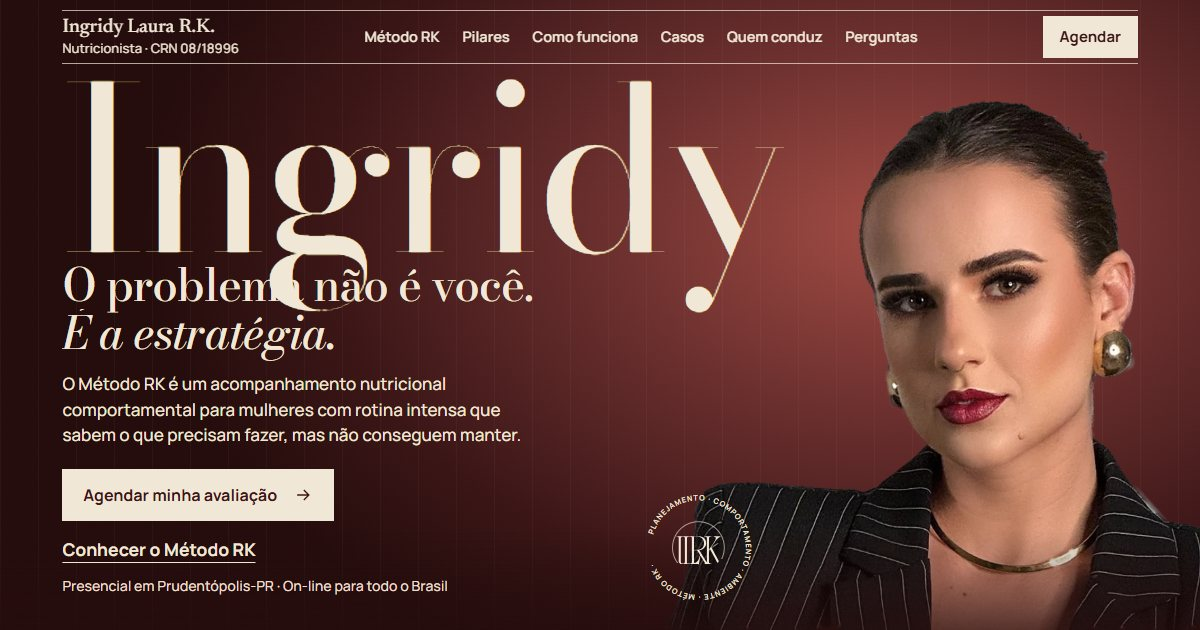
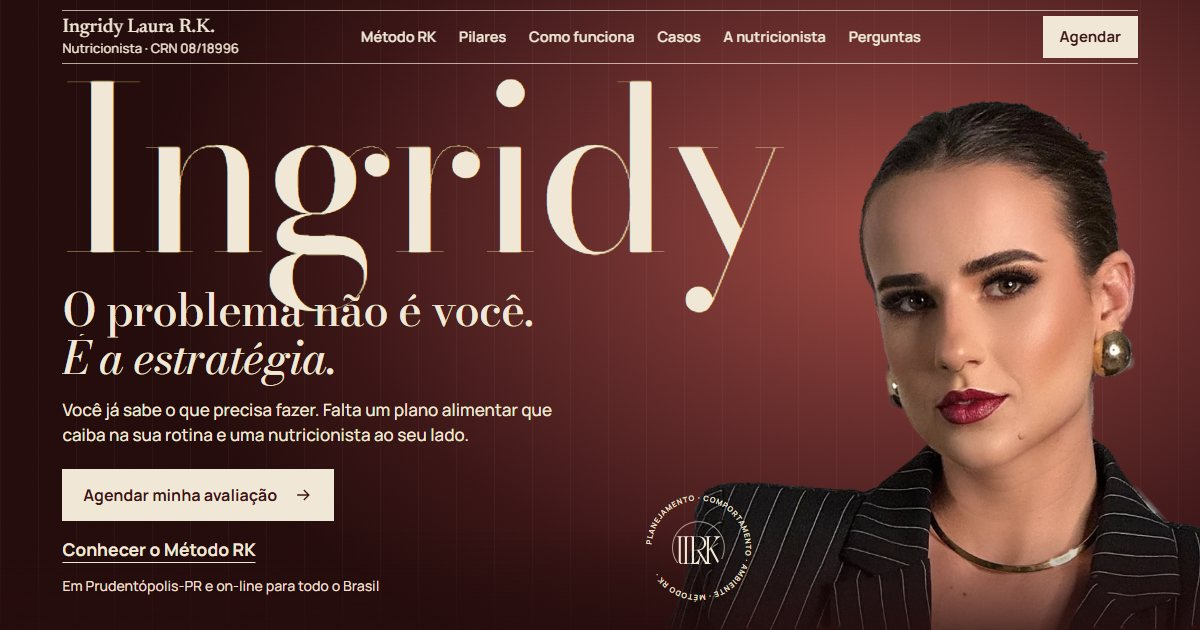
Copy nova: frases curtas, com as palavras da Ingridy e foco na dor da paciente

diff --git a/index.html b/index.html
@@ -71,7 +71,7 @@
       <a href="#pilares">Pilares</a>
       <a href="#como-funciona">Como funciona</a>
       <a href="#casos">Casos</a>
-      <a href="#quem-conduz">Quem conduz</a>
+      <a href="#quem-conduz">A nutricionista</a>
       <a href="#perguntas">Perguntas</a>
     </nav>
     <a class="topo-agendar" href="https://wa.me/5542999497100?text=Ol%C3%A1!%20Vim%20pelo%20site%20e%20gostaria%20de%20agendar%20minha%20Avalia%C3%A7%C3%A3o%20Pr%C3%A9-Acompanhamento%20do%20M%C3%A9todo%20RK." target="_blank" rel="noopener">Agendar</a>
@@ -90,12 +90,12 @@
   <div class="capa-veu" aria-hidden="true"></div>
   <div class="capa-texto">
     <h1><span class="sobe"><span>O problema não é você.</span></span> <span class="sobe"><span><em>É a estratégia.</em></span></span></h1>
-    <p class="capa-sub">O Método RK é um acompanhamento nutricional comportamental para mulheres com rotina intensa que sabem o que precisam fazer, mas não conseguem manter.</p>
+    <p class="capa-sub">Você já sabe o que precisa fazer. Falta um plano alimentar que caiba na sua rotina e uma nutricionista ao seu lado.</p>
     <div class="capa-acoes">
       <a class="botao" href="https://wa.me/5542999497100?text=Ol%C3%A1!%20Vim%20pelo%20site%20e%20gostaria%20de%20agendar%20minha%20Avalia%C3%A7%C3%A3o%20Pr%C3%A9-Acompanhamento%20do%20M%C3%A9todo%20RK." target="_blank" rel="noopener"><span>Agendar minha avaliação</span><b><svg viewBox="0 0 24 24" aria-hidden="true"><path d="M5 12h14M13 6l6 6-6 6"/></svg></b></a>
       <a class="link" href="#metodo">Conhecer o Método RK</a>
     </div>
-    <p class="capa-local">Presencial em Prudentópolis-PR · On-line para todo o Brasil</p>
+    <p class="capa-local">Em Prudentópolis-PR e on-line para todo o Brasil</p>
   </div>
   <div class="selo" aria-hidden="true" data-selo>
     <svg class="selo-texto" viewBox="0 0 200 200"><defs><path id="selo-arco" d="M100 100m-82 0a82 82 0 1 1 164 0a82 82 0 1 1-164 0"/></defs><text><textPath href="#selo-arco">PLANEJAMENTO · COMPORTAMENTO · AMBIENTE · MÉTODO RK ·</textPath></text></svg>
@@ -109,8 +109,11 @@
   <div class="problema-texto surge">
     <p class="sobre"><i></i>I · O problema</p>
     <h2>Saber o que comer não é o mesmo que conseguir <em>manter.</em></h2>
-    <p>A maioria das mulheres que procura o Método RK não tem falta de informação. Tem uma rotina intensa, desgaste mental e um ciclo que se repete a cada nova tentativa.</p>
-    <p>O método interrompe esse ciclo atuando onde a dieta isolada não alcança: na rotina, no comportamento e no ambiente.</p>
+    <p>Você resolve tudo o dia inteiro. À noite, chega em casa cansada e come o que tem: doce, pão, qualquer coisa.</p>
+    <p class="dor-destaque">Não é fome. É exaustão.</p>
+    <p>Depois vem a culpa e a promessa de sempre: segunda eu recomeço.</p>
+    <p>Não falta informação nem força de vontade. Falta um plano feito para a sua rotina, e alguém para ajustar com você quando ela muda.</p>
+    <p>É isso que o <strong>Método RK</strong> faz: 4 meses de acompanhamento com a nutricionista.</p>
   </div>
   <figure class="anel surge" data-anel>
     <svg viewBox="0 0 600 600" aria-hidden="true"><circle class="anel-base" cx="300" cy="300" r="196"/><circle class="anel-ponto" cx="300" cy="104" r="7"/></svg>
@@ -122,24 +125,24 @@
       <li style="--x:15%;--y:70%">Sente culpa</li>
       <li style="--x:15%;--y:30%">Recomeça</li>
     </ol>
-    <figcaption><span>O ciclo que o método <em>interrompe</em></span></figcaption>
+    <figcaption><span>Você vive neste <em>ciclo?</em></span></figcaption>
   </figure>
 
   <div class="comparar surge">
     <div class="comparar-grade">
       <div class="comparar-arco" aria-hidden="true"></div>
       <div class="comparar-intro">
-        <h3>O que muda em relação a uma <em>dieta isolada</em></h3>
-        <p>A diferença está em onde o trabalho começa e no que acontece quando a rotina sai do plano.</p>
+        <h3>Você não precisa de <em>mais uma dieta</em></h3>
+        <p>A diferença aparece quando a rotina sai do plano.</p>
       </div>
       <div class="c-cab"><svg aria-hidden="true"><use href="#mono"/></svg>Método RK</div>
-      <div class="c-legenda" aria-hidden="true"><span class="l-dieta">Dieta isolada</span><span class="l-rk">Método RK</span></div>
-      <div class="c-vazio"></div><div class="c-rotulo">Dieta isolada</div><div class="c-rotulo c-rotulo-rk">Acompanhamento de 4 meses</div>
-      <div class="c-tema">Ponto de partida</div><div class="c-dieta"><small>Dieta isolada</small>O cardápio.</div><div class="c-rk"><small>Método RK</small>A rotina, os gatilhos e o ambiente.</div>
-      <div class="c-tema">Plano alimentar</div><div class="c-dieta"><small>Dieta isolada</small>Pronto, e a rotina precisa se adaptar a ele.</div><div class="c-rk"><small>Método RK</small>Montado com a paciente, a partir da rotina real.</div>
-      <div class="c-tema">Vontade de doce</div><div class="c-dieta"><small>Dieta isolada</small>Trocar por versão fit e se policiar.</div><div class="c-rk"><small>Método RK</small>Identificar o gatilho, ajustar o planejamento e trabalhar a compensação.</div>
-      <div class="c-tema">Eventos e fins de semana</div><div class="c-dieta"><small>Dieta isolada</small>Uma exceção que interrompe o processo.</div><div class="c-rk"><small>Método RK</small>Estratégias e redução de danos planejadas.</div>
-      <div class="c-tema">Semana difícil</div><div class="c-dieta"><small>Dieta isolada</small>Recomeçar na segunda-feira.</div><div class="c-rk"><small>Método RK</small>Ajuste do planejamento e suporte entre as consultas.</div>
+      <div class="c-legenda" aria-hidden="true"><span class="l-dieta">Mais uma dieta</span><span class="l-rk">Método RK</span></div>
+      <div class="c-vazio"></div><div class="c-rotulo">Mais uma dieta</div><div class="c-rotulo c-rotulo-rk">Acompanhamento de 4 meses</div>
+      <div class="c-tema">Por onde começa</div><div class="c-dieta"><small>Mais uma dieta</small>Por um cardápio pronto.</div><div class="c-rk"><small>Método RK</small>Pela sua rotina e pelo que faz você sair do plano.</div>
+      <div class="c-tema">Plano alimentar</div><div class="c-dieta"><small>Mais uma dieta</small>Pronto, e você que se adapte.</div><div class="c-rk"><small>Método RK</small>Montado com a nutricionista, para caber no seu dia.</div>
+      <div class="c-tema">Vontade de doce</div><div class="c-dieta"><small>Mais uma dieta</small>Trocar por receita fit e se segurar.</div><div class="c-rk"><small>Método RK</small>Entender o que causa a vontade e treinar o que fazer na hora.</div>
+      <div class="c-tema">Festa e fim de semana</div><div class="c-dieta"><small>Mais uma dieta</small>Ou recusa o convite, ou exagera e sente culpa.</div><div class="c-rk"><small>Método RK</small>Você vai, com um plano para aquele dia.</div>
+      <div class="c-tema">Semana difícil</div><div class="c-dieta"><small>Mais uma dieta</small>Segunda eu recomeço.</div><div class="c-rk"><small>Método RK</small>Ajuste no plano e suporte direto com a nutricionista.</div>
       <div class="c-pe"><a href="https://wa.me/5542999497100?text=Ol%C3%A1!%20Vim%20pelo%20site%20e%20gostaria%20de%20agendar%20minha%20Avalia%C3%A7%C3%A3o%20Pr%C3%A9-Acompanhamento%20do%20M%C3%A9todo%20RK." target="_blank" rel="noopener">Agendar minha avaliação<svg viewBox="0 0 24 24" aria-hidden="true"><path d="M5 12h14M13 6l6 6-6 6"/></svg></a></div>
     </div>
   </div>
@@ -149,9 +152,9 @@
 
 <section class="pilares" id="pilares">
   <div class="pilares-topo surge">
-    <p class="sobre"><i></i>II · A estrutura</p>
+    <p class="sobre"><i></i>II · O método</p>
     <h2>Três <em>pilares</em> sustentam o método</h2>
-    <p>Cada pilar trata uma das causas que fazem o esforço não se sustentar.</p>
+    <p>Cada pilar cuida de um dos motivos que fazem você parar no meio do caminho.</p>
   </div>
   <svg class="templo" viewBox="0 0 1200 640" role="img" aria-label="Um templo clássico em traço dourado, com o nome Método RK no frontão e três colunas: os três pilares do método." data-templo>
     <g class="traco">
@@ -175,31 +178,34 @@
     <li class="pilar surge">
       <span class="pilar-num" aria-hidden="true">I</span>
       <h3>Planejamento Estratégico da Rotina Alimentar</h3>
-      <p>Organização real: refeições, lista de compras e cardápio que cabem na rotina, sem improviso.</p>
+      <p class="pilar-para">Para quem vive no improviso.</p>
+      <p>Seu plano alimentar, sua lista de compras e suas refeições organizados para a rotina que você tem.</p>
       <ul>
-        <li>Cardápio montado em conjunto, a partir da rotina da paciente.</li>
-        <li>Lista de compras prática, personalizada para o cardápio.</li>
-        <li>Revisão semanal do planejamento, com clareza.</li>
+        <li>Cardápio montado com você, a partir do seu dia.</li>
+        <li>Lista de compras feita para o seu cardápio.</li>
+        <li>Revisão toda semana, para o plano acompanhar a rotina.</li>
       </ul>
     </li>
     <li class="pilar surge">
       <span class="pilar-num" aria-hidden="true">II</span>
       <h3>Neurodisciplina e Comportamento</h3>
-      <p>Treino para sair do 8 ou 80, reduzir impulsos e parar de descontar emoções na comida.</p>
+      <p class="pilar-para">Para quem vive no 8 ou 80.</p>
+      <p>Treino para agir diferente na hora do cansaço e da vontade, sem descontar as emoções na comida.</p>
       <ul>
-        <li>Estratégias de neurociência para ativar constância e disciplina.</li>
-        <li>Exercícios para lidar com vontade de doce e fome emocional.</li>
-        <li>Mudança de mentalidade que se reflete no comportamento alimentar.</li>
+        <li>Entender a diferença entre fome e busca por conforto.</li>
+        <li>Exercícios para a vontade de doce e a fome emocional.</li>
+        <li>Estratégias de neurociência para ter constância sem depender de motivação.</li>
       </ul>
     </li>
     <li class="pilar surge">
       <span class="pilar-num" aria-hidden="true">III</span>
       <h3>Blindagem contra Sabotadores Ambientais</h3>
-      <p>Identificar e neutralizar o que puxa para trás: rotina caótica, estresse, falta de tempo e pressão social.</p>
+      <p class="pilar-para">Para quem sente que tudo puxa para trás.</p>
+      <p>Sabotadores são o que tira você do plano: falta de tempo, estresse e a pressão de quem está por perto.</p>
       <ul>
-        <li>Comunicação com familiares quando a mudança encontra resistência.</li>
-        <li>Estratégias para eventos, rotina corrida e ambiente familiar.</li>
-        <li>Planejamento de redução de danos, sem culpa.</li>
+        <li>Como conversar com a família quando a mudança encontra resistência.</li>
+        <li>Plano para eventos, fins de semana e semanas corridas.</li>
+        <li>Redução de danos: o que fazer quando sai do plano, sem culpa.</li>
       </ul>
     </li>
   </ol>
@@ -210,8 +216,8 @@
 <section class="jornada" id="como-funciona">
   <div class="jornada-lado surge">
     <p class="sobre"><i></i>III · Como funciona</p>
-    <h2>Uma estrutura para os <em>quatro meses</em></h2>
-    <p>Frequência definida, para que o processo continue mesmo quando a motivação acaba.</p>
+    <h2>Você não faz isso <em>sozinha</em></h2>
+    <p>Quatro meses com a nutricionista ao seu lado, para o processo continuar quando a motivação acaba.</p>
     <div class="escala" role="img" aria-label="Linha de quatro meses com seis consultas individuais, uma a cada 20 dias.">
       <div class="escala-meses"><span>Mês 1</span><span>Mês 2</span><span>Mês 3</span><span>Mês 4</span></div>
       <div class="escala-linha"><i style="--p:0"></i><i style="--p:16.667"></i><i style="--p:33.333"></i><i style="--p:50"></i><i style="--p:66.667"></i><i style="--p:83.333"></i></div>
@@ -220,11 +226,11 @@
     <a class="botao botao-escuro" href="https://wa.me/5542999497100?text=Ol%C3%A1!%20Gostaria%20de%20entender%20como%20funciona%20o%20M%C3%A9todo%20RK%20e%20agendar%20minha%20avalia%C3%A7%C3%A3o." target="_blank" rel="noopener"><span>Começar pela avaliação</span><b><svg viewBox="0 0 24 24" aria-hidden="true"><path d="M5 12h14M13 6l6 6-6 6"/></svg></b></a>
   </div>
   <ol class="ritmo">
-    <li class="surge"><span class="vazado" aria-hidden="true">01</span><div><h3>Antes de começar</h3><p><strong>Avaliação Pré-Acompanhamento.</strong> Análise da rotina e do padrão de autocontrole, com a explicação clara de por que o esforço ainda não está virando resultado.</p></div></li>
-    <li class="surge"><span class="vazado" aria-hidden="true">02</span><div><h3>A cada 20 dias</h3><p><strong>Consulta individual.</strong> São 6 ao longo de 4 meses, presenciais em Prudentópolis-PR ou on-line.</p></div></li>
-    <li class="surge"><span class="vazado" aria-hidden="true">03</span><div><h3>Toda semana</h3><p><strong>Ajustes no planejamento.</strong> Cardápio e lista de compras acompanham a rotina real, inclusive quando ela muda.</p></div></li>
-    <li class="surge"><span class="vazado" aria-hidden="true">04</span><div><h3>Entre as consultas</h3><p><strong>Sistema Anti-Desistência.</strong> Suporte direto com a nutricionista para sustentar o processo nos momentos em que a rotina tenta derrubar.</p></div></li>
-    <li class="surge"><span class="vazado" aria-hidden="true">05</span><div><h3>Todos os dias</h3><p><strong>Comunidade RK e biblioteca.</strong> Ambiente seguro de mulheres com o mesmo objetivo e acesso a materiais práticos.</p></div></li>
+    <li class="surge"><span class="vazado" aria-hidden="true">01</span><div><h3>Antes de começar</h3><p><strong>Avaliação <span class="junto">Pré-Acompanhamento.</span></strong> Analisamos a sua rotina e explicamos por que o seu esforço ainda não virou resultado.</p></div></li>
+    <li class="surge"><span class="vazado" aria-hidden="true">02</span><div><h3>A cada 20 dias</h3><p><strong>Consulta individual.</strong> São 6 em 4 meses, em Prudentópolis-PR ou on-line.</p></div></li>
+    <li class="surge"><span class="vazado" aria-hidden="true">03</span><div><h3>Toda semana</h3><p><strong>Ajustes no plano alimentar.</strong> O cardápio e a lista de compras mudam quando a sua rotina muda.</p></div></li>
+    <li class="surge"><span class="vazado" aria-hidden="true">04</span><div><h3>Entre as consultas</h3><p><strong>Sistema Anti-Desistência.</strong> Suporte direto com a nutricionista na hora em que dá vontade de desistir.</p></div></li>
+    <li class="surge"><span class="vazado" aria-hidden="true">05</span><div><h3>Todos os dias</h3><p><strong>Comunidade RK e biblioteca.</strong> Um ambiente seguro de mulheres com o mesmo objetivo, e materiais práticos para consultar.</p></div></li>
   </ol>
 </section>
 
@@ -233,17 +239,18 @@
 <section class="paraquem">
   <div class="paraquem-titulo surge">
     <p class="sobre"><i></i>IV · Para quem</p>
-    <h2>Para mulheres que lideram, menos a própria <em>alimentação.</em></h2>
+    <h2>Você é excelente em outras áreas, mas trava na <em>alimentação?</em></h2>
   </div>
   <div class="paraquem-lista surge">
+    <p class="paraquem-intro">O Método RK é para você que:</p>
     <ul>
-      <li>Têm rotina intensa, no trabalho e em casa.</li>
-      <li>Buscam clareza e organização na alimentação.</li>
-      <li>Querem emagrecer sem restrição extrema.</li>
-      <li>Estão cansadas de recomeçar.</li>
-      <li>Querem uma estratégia real, não mais uma dieta.</li>
+      <li>Tem rotina intensa, no trabalho e em casa.</li>
+      <li>Vive no improviso e come o que tem.</li>
+      <li>Está cansada de começar e parar.</li>
+      <li>Quer emagrecer sem viver em guerra com a comida.</li>
+      <li>Quer um plano que caiba na sua vida, não mais uma dieta.</li>
     </ul>
-    <p class="paraquem-nao"><em>Para quem não é:</em> quem procura solução em uma semana. Mudança de comportamento leva tempo, e é por isso que o acompanhamento dura 4 meses.</p>
+    <p class="paraquem-nao"><em>Não é para quem</em> quer solução em uma semana. Mudar comportamento leva tempo. Por isso são 4 meses.</p>
   </div>
 </section>
 
@@ -256,7 +263,7 @@
       <h2>O método em <em>casos reais</em></h2>
     </div>
     <div class="casos-nota">
-      <p>Casos de consultório, sem identificação e sem dados corporais. Cada pessoa tem o seu processo.</p>
+      <p>Casos de consultório, sem expor ninguém. Cada pessoa tem o seu processo.</p>
       <div class="casos-setas">
         <button type="button" data-folha="-1" aria-label="Caso anterior"><svg viewBox="0 0 24 24" aria-hidden="true"><path d="M19 12H5M11 6l-6 6 6 6"/></svg></button>
         <button type="button" data-folha="1" aria-label="Próximo caso"><svg viewBox="0 0 24 24" aria-hidden="true"><path d="M5 12h14M13 6l6 6-6 6"/></svg></button>
@@ -272,8 +279,8 @@
       </div>
       <dl>
         <div><dt>O que parecia</dt><dd>Que nunca havia nada para comer em casa.</dd></div>
-        <div><dt>O que a avaliação mostrou</dt><dd>Compra sem planejamento: muita coisa estragava e a alimentação ficava no improviso.</dd></div>
-        <div><dt>O que foi trabalhado</dt><dd>A lista de compras do Método RK, feita a partir do cardápio dela.</dd></div>
+        <div><dt>O que estava por trás</dt><dd>Compras sem planejamento. Muita coisa estragava e as refeições ficavam no improviso.</dd></div>
+        <div><dt>O que fizemos</dt><dd>A lista de compras do Método RK, feita a partir do cardápio dela.</dd></div>
         <div><dt>O que mudou</dt><dd>“Vou uma vez por semana, compro só o que preciso, na quantidade certa. Parou o desperdício.”</dd></div>
       </dl>
     </article>
@@ -285,8 +292,8 @@
       </div>
       <dl>
         <div><dt>O que parecia</dt><dd>Falta de controle com a comida.</dd></div>
-        <div><dt>O que a avaliação mostrou</dt><dd>O cansaço de passar o dia resolvendo problemas. A comida era o alívio que ela conseguia ter.</dd></div>
-        <div><dt>O que foi trabalhado</dt><dd>Investigação de gatilhos e situações, e o reconhecimento da diferença entre fome e busca por conforto.</dd></div>
+        <div><dt>O que estava por trás</dt><dd>O cansaço de resolver problemas o dia inteiro. A comida era o alívio que ela conseguia ter.</dd></div>
+        <div><dt>O que fizemos</dt><dd>Identificamos os gatilhos e treinamos a diferença entre fome e busca por conforto.</dd></div>
         <div><dt>O que mudou</dt><dd>Em uma semana corrida de fechamento do mês, usou os exercícios antes de ir ao doce da gaveta.</dd></div>
       </dl>
     </article>
@@ -298,8 +305,8 @@
       </div>
       <dl>
         <div><dt>O que parecia</dt><dd>Falta de disciplina.</dd></div>
-        <div><dt>O que a avaliação mostrou</dt><dd>Uma rotina que dificultava as escolhas alimentares.</dd></div>
-        <div><dt>O que foi trabalhado</dt><dd>Identificação do que atrapalhava, organização da rotina e estratégias possíveis de manter.</dd></div>
+        <div><dt>O que estava por trás</dt><dd>Uma rotina que dificultava as escolhas.</dd></div>
+        <div><dt>O que fizemos</dt><dd>Identificamos o que atrapalhava, organizamos a rotina e escolhemos estratégias possíveis de manter.</dd></div>
         <div><dt>O que mudou</dt><dd>Até o marido e a filha passaram a se alimentar melhor.</dd></div>
       </dl>
     </article>
@@ -334,10 +341,10 @@
     </figure>
   </div>
   <div class="quem-texto surge">
-    <p class="sobre"><i></i>VII · Quem conduz</p>
+    <p class="sobre"><i></i>VII · A nutricionista</p>
     <h2>Ingridy Laura <em>Raifur Kos</em></h2>
     <p class="quem-cargo">Nutricionista · CRN 08/18996 · Criadora do Método RK</p>
-    <p>Nutricionista com atuação em nutrição comportamental. Atende mulheres com rotina intensa, presencialmente em Prudentópolis-PR e on-line para todo o Brasil.</p>
+    <p>Atua em nutrição comportamental, que olha para o que você come e também para o porquê. Atende mulheres com rotina intensa, em Prudentópolis-PR e on-line para todo o Brasil.</p>
     <ul class="credenciais">
       <li>Graduação em Nutrição</li>
       <li>Pós-graduação em Nutrição Esportiva</li>
@@ -358,28 +365,32 @@
   </div>
   <div class="perguntas-lista">
     <details open>
-      <summary>O Método RK é mais uma dieta?<svg viewBox="0 0 24 24" aria-hidden="true"><path d="M5 9l7 7 7-7"/></svg></summary>
-      <p>Não. É um acompanhamento nutricional de 4 meses. O cardápio existe, mas é montado com a paciente, a partir da rotina dela, junto com o trabalho de comportamento e de ambiente.</p>
+      <summary>Já sei o que comer. Por que preciso de uma nutricionista?<svg viewBox="0 0 24 24" aria-hidden="true"><path d="M5 9l7 7 7-7"/></svg></summary>
+      <p>Porque saber não é o mesmo que manter. A nutricionista monta o plano com você, ajusta toda semana e está por perto quando a rotina aperta.</p>
     </details>
     <details open>
+      <summary>O Método RK é mais uma dieta?<svg viewBox="0 0 24 24" aria-hidden="true"><path d="M5 9l7 7 7-7"/></svg></summary>
+      <p>Não. É um acompanhamento de 4 meses com a nutricionista. O plano alimentar é montado com você, junto com o trabalho de comportamento e de rotina.</p>
+    </details>
+    <details>
       <summary>Vou precisar cortar doce, pão e vida social?<svg viewBox="0 0 24 24" aria-hidden="true"><path d="M5 9l7 7 7-7"/></svg></summary>
-      <p>O acompanhamento não é baseado em proibições. O trabalho é aprender a lidar com eventos, fins de semana e vontade de doce com estratégia.</p>
+      <p>O acompanhamento não é baseado em proibição. Você aprende a lidar com festas, fins de semana e vontade de doce, com estratégia.</p>
     </details>
     <details>
       <summary>Minha rotina é caótica. Funciona mesmo assim?<svg viewBox="0 0 24 24" aria-hidden="true"><path d="M5 9l7 7 7-7"/></svg></summary>
-      <p>O método foi criado para mulheres com rotina intensa. O planejamento se adapta à vida da paciente e inclui o que fazer quando a semana sai do plano.</p>
+      <p>O método foi criado para rotinas intensas. O plano se adapta à sua vida e já prevê o que fazer quando a semana sai do planejado.</p>
     </details>
     <details>
       <summary>Uso ou penso em usar medicamento para emagrecer. Faz sentido?<svg viewBox="0 0 24 24" aria-hidden="true"><path d="M5 9l7 7 7-7"/></svg></summary>
-      <p>O medicamento pode ajudar no tratamento da obesidade, com acompanhamento médico, mas não substitui a mudança dos hábitos alimentares. O foco aqui é o comportamento e a rotina.</p>
+      <p>O medicamento pode ajudar no tratamento da obesidade, com acompanhamento médico, mas não substitui a mudança de hábitos. O foco aqui é o comportamento e a rotina.</p>
     </details>
     <details>
-      <summary>O atendimento é presencial ou on-line?<svg viewBox="0 0 24 24" aria-hidden="true"><path d="M5 9l7 7 7-7"/></svg></summary>
+      <summary>É presencial ou on-line?<svg viewBox="0 0 24 24" aria-hidden="true"><path d="M5 9l7 7 7-7"/></svg></summary>
       <p>Os dois. Presencial na Rua XII de Agosto, 1439, Centro, Prudentópolis-PR, e on-line para todo o Brasil.</p>
     </details>
     <details>
       <summary>Por onde eu começo?<svg viewBox="0 0 24 24" aria-hidden="true"><path d="M5 9l7 7 7-7"/></svg></summary>
-      <p>Pela Avaliação Pré-Acompanhamento, em que analisamos sua rotina e seu padrão de autocontrole e explicamos o caminho dentro do método.</p>
+      <p>Pela Avaliação <span class="junto">Pré-Acompanhamento.</span> Analisamos a sua rotina e explicamos o que está travando o seu processo.</p>
     </details>
   </div>
 </section>
@@ -390,8 +401,8 @@
   <svg class="final-marca" aria-hidden="true"><use href="#mono"/></svg>
   <div class="final-texto surge">
     <p class="sobre"><i></i>O primeiro passo</p>
-    <h2>Tudo começa pela <em>avaliação.</em></h2>
-    <p>Na Avaliação Pré-Acompanhamento, você entende o que está travando o seu processo e como o Método RK atua no seu caso.</p>
+    <h2>Quantas semanas você ainda vai terminar prometendo que na próxima será <em>diferente?</em></h2>
+    <p>Comece pela Avaliação <span class="junto">Pré-Acompanhamento.</span> Você entende o que está travando o seu processo e como a nutricionista pode ajudar com o seu plano alimentar.</p>
     <a class="botao" href="https://wa.me/5542999497100?text=Ol%C3%A1!%20Vim%20pelo%20site%20e%20gostaria%20de%20agendar%20minha%20Avalia%C3%A7%C3%A3o%20Pr%C3%A9-Acompanhamento%20do%20M%C3%A9todo%20RK." target="_blank" rel="noopener"><span>Agendar minha avaliação</span><b><svg viewBox="0 0 24 24" aria-hidden="true"><path d="M5 12h14M13 6l6 6-6 6"/></svg></b></a>
   </div>
   <address class="final-onde surge">

diff --git a/estilo.css b/estilo.css
@@ -156,6 +156,7 @@ h3 { font: 500 clamp(1.5rem, 1.3rem + .8vw, 2rem)/1.2 var(--leitura); letter-spa
 .anel-ponto { fill: var(--bordo); transform-origin: 300px 300px; transform: rotate(var(--giro)); transition: transform 1s var(--curva); }
 .anel li { position: absolute; left: var(--x); top: var(--y); transform: translate(-50%, -50%); padding: .1em .4em; background: var(--papel); font: 500 clamp(1.1rem, .95rem + .46vw, 1.3rem)/1.15 var(--leitura); white-space: nowrap; color: var(--tinta-2); transition: color .35s linear; }
 .anel li.ativo { color: var(--bordo); font-style: italic; }
+.problema-texto > p.dor-destaque { font: italic 500 clamp(1.5rem, 1.3rem + .6vw, 1.85rem)/1.2 var(--leitura); color: var(--bordo); }
 .anel figcaption { position: absolute; inset: 33%; display: flex; align-items: center; justify-content: center; text-align: center; font: 500 clamp(1.25rem, 1rem + .8vw, 1.65rem)/1.18 var(--leitura); color: var(--bordo); }
 .anel figcaption em { font-style: italic; }
 
@@ -203,6 +204,7 @@ h3 { font: 500 clamp(1.5rem, 1.3rem + .8vw, 2rem)/1.2 var(--leitura); letter-spa
 .pilar-num { display: block; font: 400 clamp(3.4rem, 5.2vw, 5rem)/1 var(--display); font-variation-settings: "opsz" 96; color: var(--salvia); margin-bottom: .1em; }
 .pilar h3 { min-height: 3.5em; display: flex; align-items: flex-start; justify-content: center; }
 .pilar > p { margin-top: .5em; }
+.pilar > p.pilar-para { font: italic 500 1.24rem/1.25 var(--leitura); color: var(--salvia); }
 .pilar ul { margin-top: 1em; text-align: left; border-top: 1px solid var(--fio-escuro); }
 .pilar ul li { padding: .66em 0; border-bottom: 1px solid var(--fio-escuro); line-height: 1.42; font-size: 1.03rem; }
 
@@ -225,11 +227,13 @@ h3 { font: 500 clamp(1.5rem, 1.3rem + .8vw, 2rem)/1.2 var(--leitura); letter-spa
 .ritmo h3 { font-style: italic; font-weight: 500; color: var(--bordo); margin-bottom: .22em; }
 .ritmo p { color: var(--tinta-2); }
 .ritmo strong { color: var(--tinta); font-weight: 700; }
+.junto { white-space: nowrap; }
 
 /* Para quem */
 .paraquem { background: var(--salvia); display: grid; grid-template-columns: minmax(0, 1fr) minmax(0, 1fr); gap: clamp(26px, 5vw, 80px); align-items: start; padding: clamp(26px, 3.4vw, 50px) max(var(--margem), calc((100vw - var(--largura)) / 2)) clamp(36px, 4vw, 60px); }
 .paraquem .sobre { color: var(--musgo); }
 .paraquem h2 { color: var(--musgo); }
+.paraquem-intro { margin-bottom: .7em; font-weight: 600; color: var(--musgo); }
 .paraquem-lista li { position: relative; padding: .7em 0 .7em 2.1em; border-top: 1px solid rgba(50, 52, 28, .32); font-weight: 600; line-height: 1.38; }
 .paraquem-lista li::before { content: ""; position: absolute; left: .15em; top: 1.05em; width: .95em; height: .5em; border-left: 1.5px solid var(--musgo); border-bottom: 1.5px solid var(--musgo); transform: rotate(-45deg); }
 .paraquem-nao { padding-top: 1em; border-top: 1px solid rgba(50, 52, 28, .32); }
@@ -317,7 +321,7 @@ h3 { font: 500 clamp(1.5rem, 1.3rem + .8vw, 2rem)/1.2 var(--leitura); letter-spa
 .final-marca { position: absolute; z-index: -1; right: -6vw; top: -8%; width: min(64vw, 780px); height: min(64vw, 780px); color: var(--ouro-claro); opacity: .05; pointer-events: none; }
 .final .sobre { color: var(--ouro-claro); }
 .final-texto { display: grid; justify-items: start; }
-.final h2 { font-size: clamp(2.8rem, 1.7rem + 4.6vw, 6rem); line-height: 1.02; }
+.final h2 { font-size: clamp(2.3rem, 1.6rem + 3vw, 4.4rem); line-height: 1.06; }
 .final h2 em { color: var(--ouro-claro); }
 .final-texto > p:not(.sobre) { margin: 1.1em 0 1.5em; max-width: 31em; font-size: 1.125rem; }
 .final-onde { display: grid; gap: .95em; justify-items: start; padding-left: clamp(0px, 3vw, 44px); border-left: 1px solid var(--fio-escuro); }
@@ -397,6 +401,7 @@ h3 { font: 500 clamp(1.5rem, 1.3rem + .8vw, 2rem)/1.2 var(--leitura); letter-spa
   .pilar h3 { min-height: 0; }
   .jornada-lado, .perguntas-lado { position: static; }
   .ritmo li { grid-template-columns: 78px minmax(0, 1fr); }
+  .ritmo strong { display: block; margin-bottom: .1em; }
   .vazado { font-size: 3.1rem; }
   .folha { flex-basis: 88vw; grid-template-columns: minmax(0, 1fr); min-height: 0; }
   .folha-num { display: none; }
